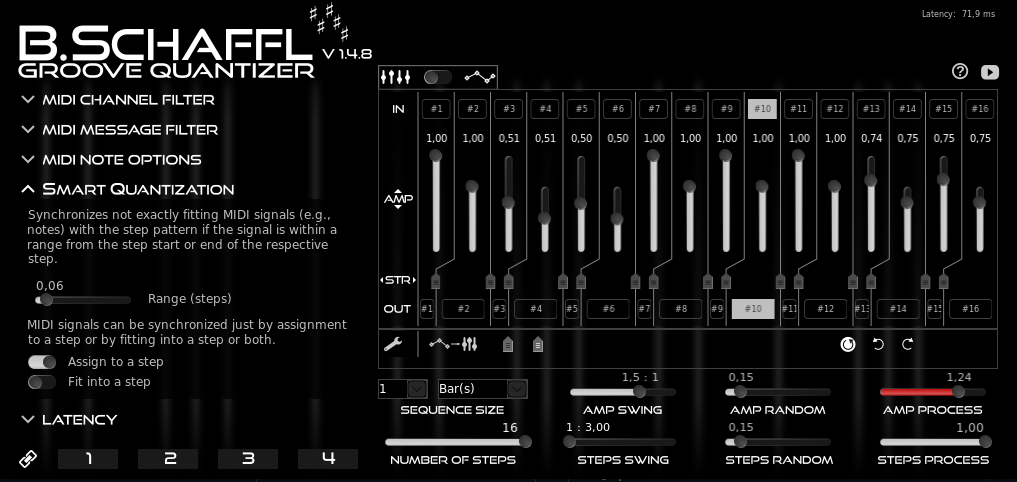
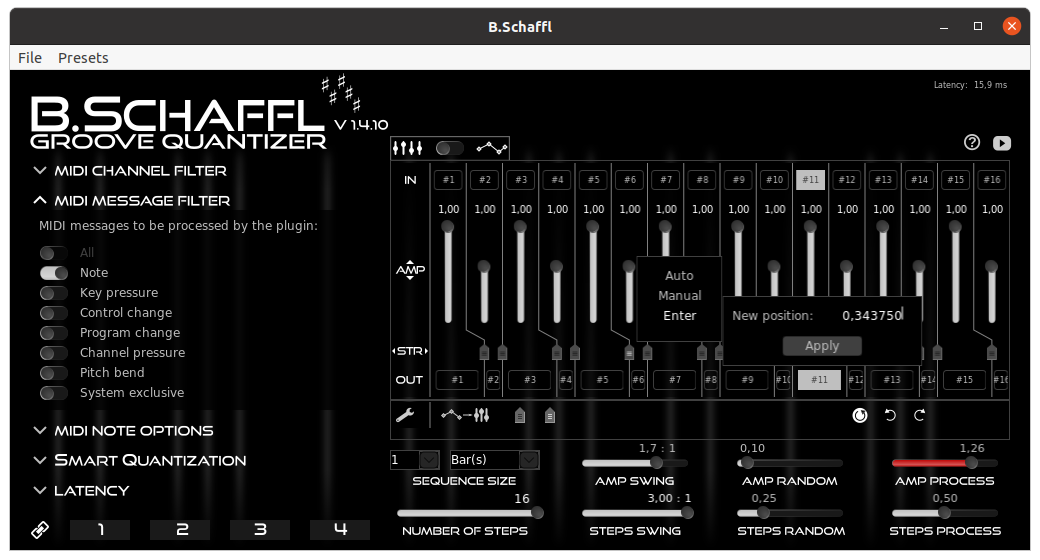
doc

diff --git a/README.md b/README.md
@@ -136,8 +136,10 @@ Drag the stretch markers to manually shrink or stretch the step size.
 
 All stretch markers are set to "auto" by default. This means that all markers are homogeneously
 distributed and are automatically re-positioned after changes. The markers status is changed to
-"manual" once a marker is dragged. You can also change the markers status by right-clicking on it or by
-setting all markers by pressing the "All markers" buttons in the toolbox.
+"manual" once a marker is dragged. You can also change the markers status by right-clicking on it.
+Then you can choose between "auto", "manual" and "enter". This third option allows to enter a new
+relative marker position and the marker is set to the manual mode. Finally, you can also set all
+markers at once by pressing the "All markers" buttons in the toolbox.
 
 
 #### Toolbox
